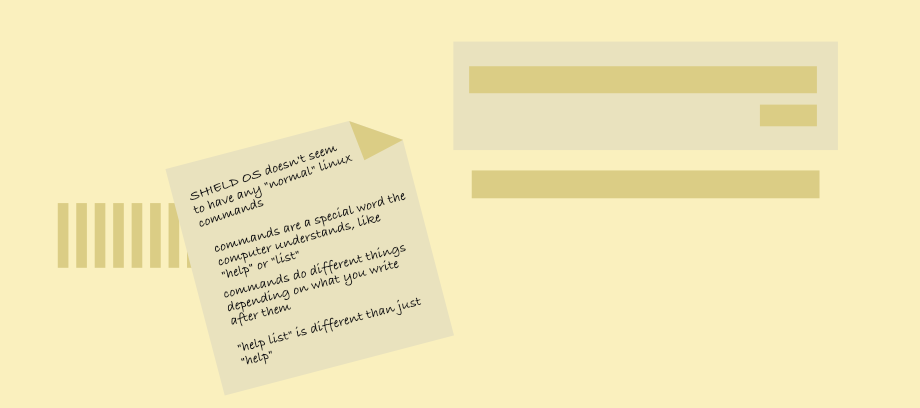
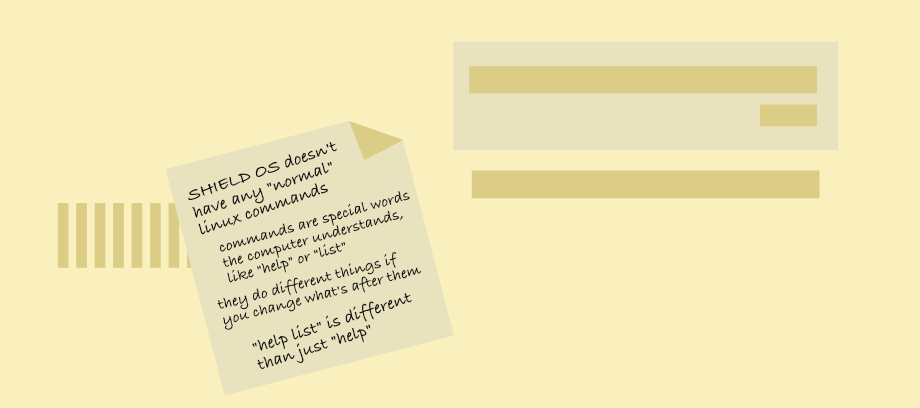
Tweak intro

Changed region(s): [[0.1826, 0.3529, 0.4565, 0.7941], [0.2435, 0.7059, 0.4565, 0.9118]]

diff --git a/src/components/App.js b/src/components/App.js
@@ -71,19 +71,23 @@ const App = () => {
         </Line>
         <Line color="asciiArtColor">SHIELD_OS v3.37.2</Line>
         <Line />
-        <Line color="asciiArtColor">{"---- [CUSTOM User Greeting] ----"}</Line>
+        <Line color="asciiArtColor">
+          {"----- [CUSTOM User Greeting] -----"}
+        </Line>
         <Line>This SERVER is super 1337 and SECURE.</Line>
         <Line />
         <Line>I DARE you to try and break in!</Line>
         <Line />
         <Line>SHIELD_OS isn't one of those BOOMER terminals.</Line>
         <Line>There's no lame penguin mascot, we've got a</Line>
-        <Line>a super sick SHIELD logo.</Line>
+        <Line>a super sick SHIELD.</Line>
         <Line />
         <Line>NOTHING you know about "real" terminals</Line>
         <Line>will help you here. You'll need to experiment.</Line>
         <Line>Don't worry about breaking anything.</Line>
-        <Line color="asciiArtColor">{"--------------------------------"}</Line>
+        <Line color="asciiArtColor">
+          {"----------------------------------"}
+        </Line>
         <Line />
         <Line>
           Welcome to <strong>Shield OS</strong>
